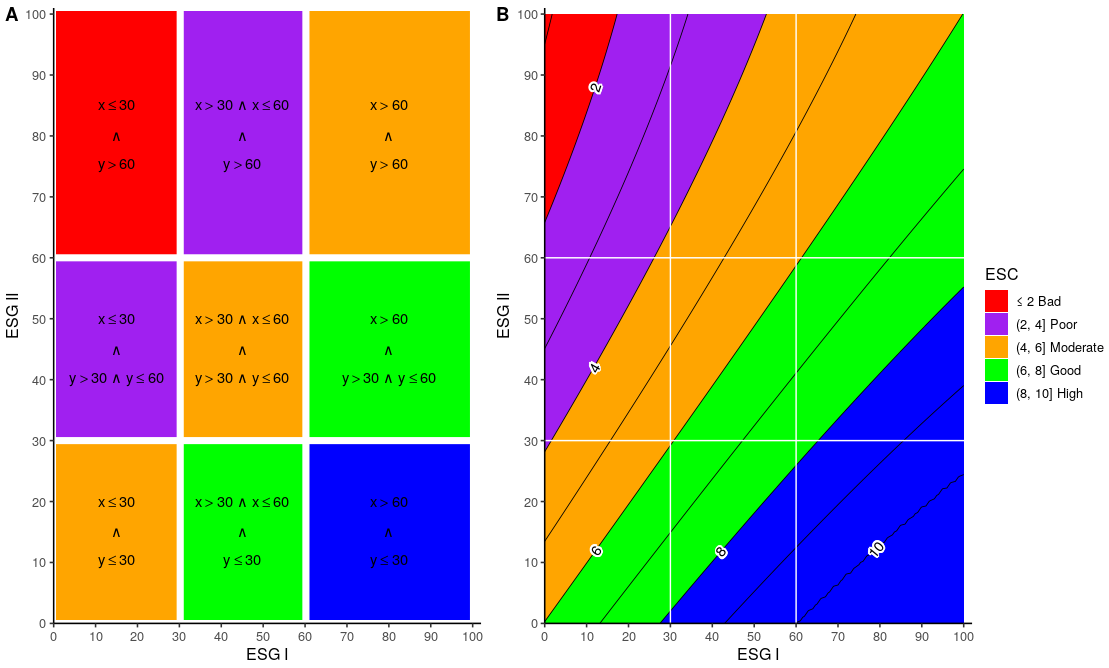
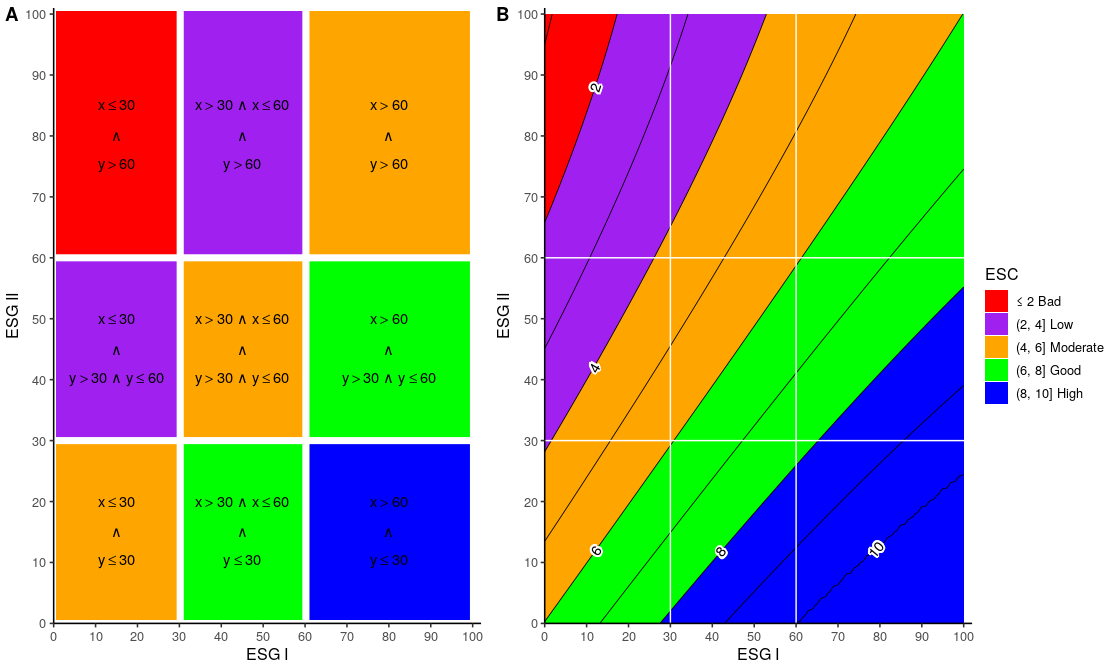
updated

diff --git a/README.md b/README.md
@@ -27,6 +27,8 @@ install.packages("devtools")
 devtools::install_github("salah31416/eeiR")
 ```
 
+## Functional Group
+
 ## Ecological Status Group
 
 <img src="https://latex.codecogs.com/svg.latex?\Large&space;ESG%20I%20(\%%20coverage)%20=%20(IA%20\cdot%201)%20+%20(IB%20\cdot%200.8)%20+%20(IC%20\cdot%200.6)" title="ESGI" />
@@ -95,13 +97,28 @@ eqr(eeic)
 
 ## Ecological Status Class
 
-<a href="https://www.codecogs.com/eqnedit.php?latex=ESC=\begin{cases}&space;Bad&space;&&space;\text{&space;if&space;}&space;eeic\leq2&space;\\&space;Poor&space;&&space;\text{&space;if&space;}&space;2<eeic\leq4&space;\\&space;Moderate&space;&&space;\text{&space;if&space;}&space;4<eeic\leq6&space;\\&space;Good&space;&&space;\text{&space;if&space;}&space;6<eeic\leq8&space;\\&space;High&space;&&space;\text{&space;if&space;}&space;eeic>8&space;\end{cases}" target="_blank"><img src="https://latex.codecogs.com/gif.latex?ESC=\begin{cases}&space;Bad&space;&&space;\text{&space;if&space;}&space;eeic\leq2&space;\\&space;Poor&space;&&space;\text{&space;if&space;}&space;2<eeic\leq4&space;\\&space;Moderate&space;&&space;\text{&space;if&space;}&space;4<eeic\leq6&space;\\&space;Good&space;&&space;\text{&space;if&space;}&space;6<eeic\leq8&space;\\&space;High&space;&&space;\text{&space;if&space;}&space;eeic>8&space;\end{cases}" title="ESC=\begin{cases} Bad & \text{ if } eeic\leq2 \\ Poor & \text{ if } 2<eeic\leq4 \\ Moderate & \text{ if } 4<eeic\leq6 \\ Good & \text{ if } 6<eeic\leq8 \\ High & \text{ if } eeic>8 \end{cases}" /></a>
+<a href="https://www.codecogs.com/eqnedit.php?latex=ESC=\begin{cases}&space;Bad&space;&&space;\text{&space;if&space;}&space;eeic\leq2&space;\\&space;Low&space;&&space;\text{&space;if&space;}&space;2<eeic\leq4&space;\\&space;Moderate&space;&&space;\text{&space;if&space;}&space;4<eeic\leq6&space;\\&space;Good&space;&&space;\text{&space;if&space;}&space;6<eeic\leq8&space;\\&space;High&space;&&space;\text{&space;if&space;}&space;eeic>8&space;\end{cases}" target="_blank"><img src="https://latex.codecogs.com/gif.latex?ESC=\begin{cases}&space;Bad&space;&&space;\text{&space;if&space;}&space;eeic\leq2&space;\\&space;Low&space;&&space;\text{&space;if&space;}&space;2<eeic\leq4&space;\\&space;Moderate&space;&&space;\text{&space;if&space;}&space;4<eeic\leq6&space;\\&space;Good&space;&&space;\text{&space;if&space;}&space;6<eeic\leq8&space;\\&space;High&space;&&space;\text{&space;if&space;}&space;eeic>8&space;\end{cases}" title="ESC=\begin{cases} Bad & \text{ if } eeic\leq2 \\ Low & \text{ if } 2<eeic\leq4 \\ Moderate & \text{ if } 4<eeic\leq6 \\ Good & \text{ if } 6<eeic\leq8 \\ High & \text{ if } eeic>8 \end{cases}" /></a>
 
 ```r
 ## ESC
 esc(eeic)
-#[1] "Poor"     "Moderate" "Moderate" "Poor"     "Bad"
+#[1] "Low"     "Moderate" "Moderate" "Low"     "Bad"
 ```
+
+## Insert Group ESG in Data
+
+```r
+## Algae Theoretical Values
+data(AlgaeTV)
+
+```
+
+## Define Indices
+
+```r
+
+```
+
 
 
 ## Graphics
